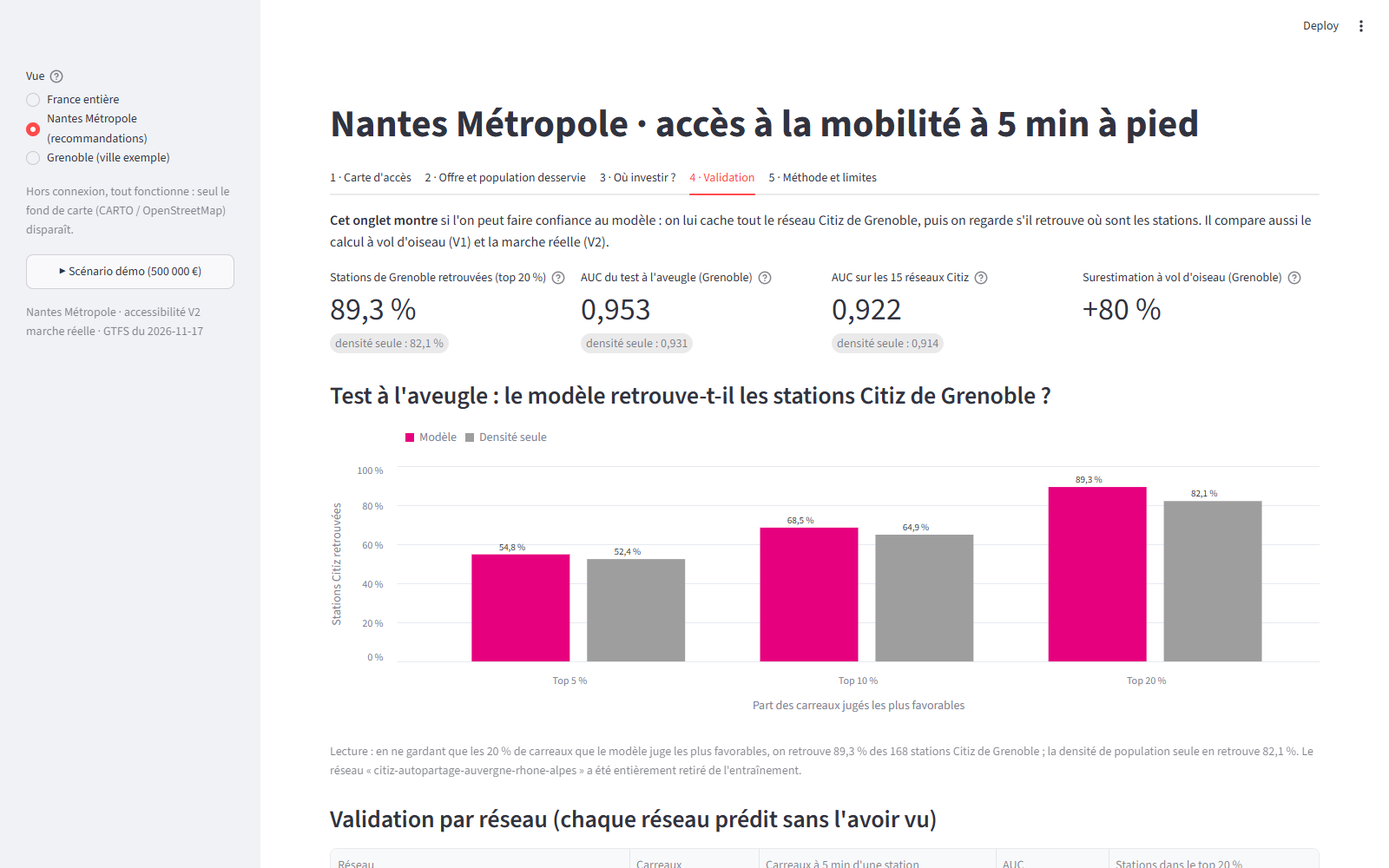
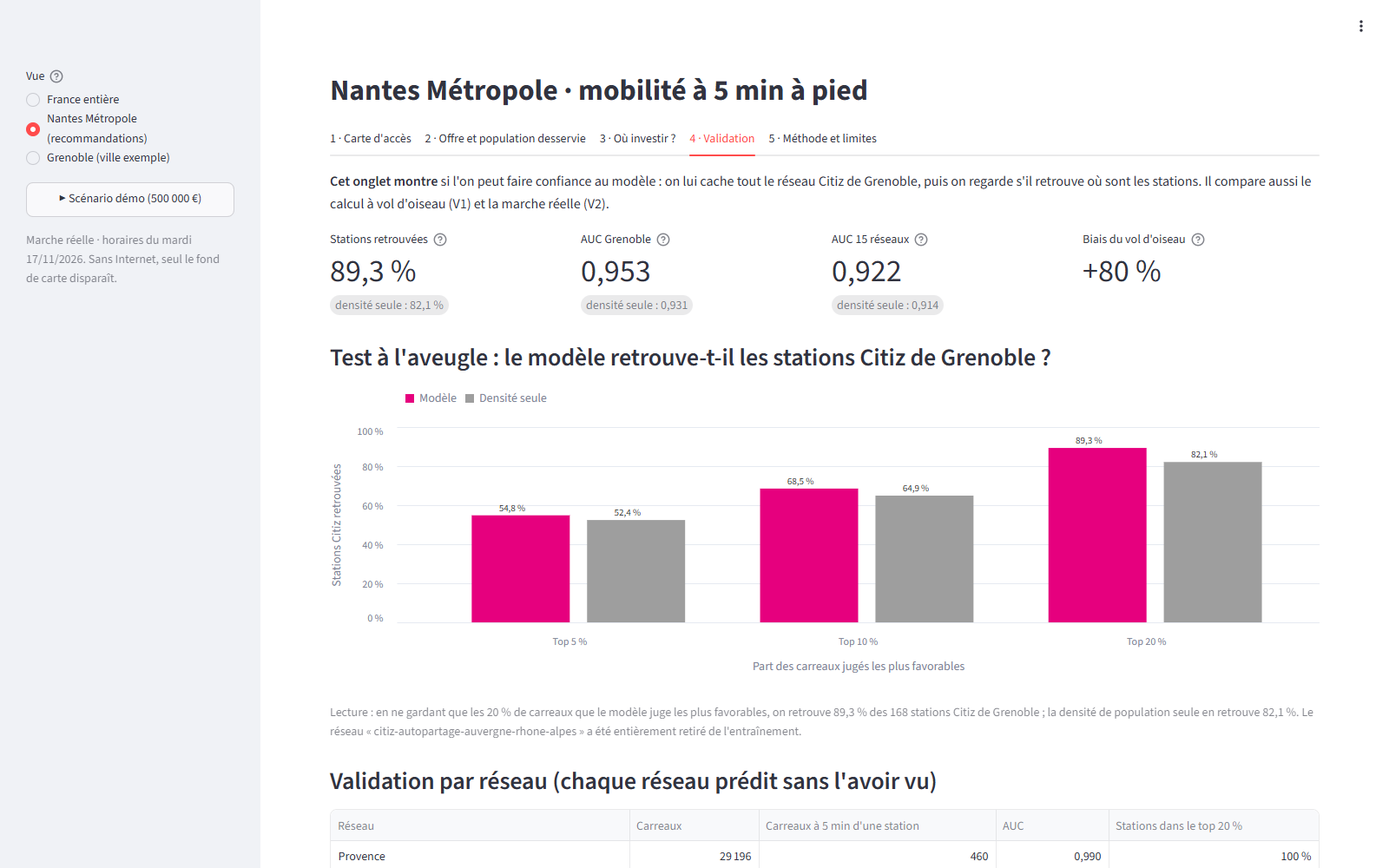
Démo, lot 1 de la revue visuelle : lisibilité en 1280 × 720 et 1920 × 1080
- Où investir : carte centrée sur les stations recommandées (zoom ajusté), numéros des stations
  enfin affichés, liste priorisée sur 12 lignes sans les colonnes Emplacement et Budget cumulé
  (toujours dans l'export CSV).
- Indicateurs : libellés courts (détail dans l'aide), couverture avant → après lisible
  (19,0 % → 24,1 %).
- Titre plus court et plus petit, marge du haut réduite.
- France : indicateur par défaut « part de la population sans aucune option », carte plus haute.
- Validation : légende en français sous les graphiques SHAP (vols liés aux véhicules, indicateur
  communal) ; petites cartes V1 / V2 retirées ; plus de « ? » orphelin.
- Barre latérale : bouton Scénario démo sans infobulle envahissante, mentions discrètes en bas
  (date au format 17/11/2026). Libellé « Marguerite ».
- lancer_demo.bat : plus de demande d'e-mail au premier lancement, navigateur ouvert dès que
  l'appli répond (port 8501).
- Captures de secours (slides/img/demo/) régénérées.

diff --git a/app/app.py b/app/app.py
@@ -9,6 +9,7 @@ Rien de lourd n'est calculé au démarrage.
 """
 from __future__ import annotations
 
+import datetime as dt
 import json
 import sys
 from pathlib import Path
@@ -20,16 +21,19 @@ from pyproj import Transformer
 
 sys.path.insert(0, str(Path(__file__).resolve().parents[1]))
 from app.data import FILES, REAL, ROOT, available, city_folder, has_reco, load_all  # noqa: E402
-from app.ui import colorize, deck, fmt, fr, pct, table, walk_minutes  # noqa: E402
+from app.ui import colorize, deck, fit_zoom, fmt, fr, pct, table, walk_minutes  # noqa: E402
 from src.common.config import load_settings  # noqa: E402
 
 st.set_page_config(page_title="Accès mobilité · Citiz", layout="wide")
+# marge du haut réduite et titre plus petit : tout tient mieux en 1280 × 720 (vidéoprojecteur)
+st.markdown("<style>[data-testid='stMainBlockContainer'], .block-container {padding-top: 3rem;} "
+            "h1 {font-size: 2.1rem !important;}</style>", unsafe_allow_html=True)
 
 TYPE_COLORS = {"bus": [0, 114, 178], "tram": [213, 94, 0], "metro": [204, 121, 167], "train": [86, 86, 86],
                "telepherique": [0, 158, 115], "velo": [0, 158, 115], "trottinette": [240, 228, 66],
                "citiz": [230, 0, 126], "autopartage": [150, 0, 90]}
 TYPE_LABELS = {"bus": "Bus", "tram": "Tram", "metro": "Métro", "train": "Train", "telepherique": "Téléphérique",
-               "velo": "Vélo", "trottinette": "Trottinette", "citiz": "Citiz", "autopartage": "Autre autopartage (Marguerite…)"}
+               "velo": "Vélo", "trottinette": "Trottinette", "citiz": "Citiz", "autopartage": "Marguerite"}
 # opérateur lisible à partir de la source (gtfs:<jeu>, gbfs:<flux>, local:<nom>)
 OPERATORS = (("naolib", "Naolib"), ("aleop", "Aléop (Région)"), ("sncf", "SNCF"), ("bacs-de-loire", "Bacs de Loire"),
              ("marguerite", "Marguerite"), ("citiz", "Citiz"), ("telepherique", "Téléphérique de la Bastille"),
@@ -40,7 +44,8 @@ MIN_MENAGES = 11
 TO_WGS84 = Transformer.from_crs(2154, 4326, always_xy=True)
 FIG = ROOT / "docs" / "figures"
 DEMO = {"budget": 500_000, "equity": 0.5, "method": "ilp"}           # bouton « Scénario démo » (= slides)
-PRECALC = (250_000, 500_000, 1_000_000)                               # budgets lus directement (build_reco)
+PRECALC = (250_000, 500_000, 1_000_000)
+JOURS = ("lundi", "mardi", "mercredi", "jeudi", "vendredi", "samedi", "dimanche")                               # budgets lus directement (build_reco)
 
 
 def operator(source: str) -> str:
@@ -108,14 +113,18 @@ def demo_scenario() -> None:
 view = st.sidebar.radio("Vue", list(VIEWS),
                         help="France : accessibilité à vol d'oiseau de tous les carreaux habités. "
                              "Nantes : diagnostic et recommandations. Grenoble : ville exemple (marche réelle, validation).")
-st.sidebar.caption("Hors connexion, tout fonctionne : seul le fond de carte (CARTO / OpenStreetMap) disparaît.")
+side = st.sidebar.container()        # bouton « Scénario démo » (vues ville)
+note = st.sidebar.container()        # mentions discrètes, en bas
+OFFLINE = "Sans Internet, seul le fond de carte disparaît."
 if VIEWS[view] is None:
+    note.caption(OFFLINE)
     from app.national import render
     render()
     st.stop()
 
 # imports utiles seulement aux vues ville (la vue France démarre ainsi plus vite)
 import altair as alt  # noqa: E402
+import geopandas as gpd  # noqa: E402
 from src.optim.costs import co2_avoided_t_per_year, load_costs  # noqa: E402
 from src.optim.optimize import Problem, optimize  # noqa: E402
 
@@ -132,12 +141,15 @@ meta = d["meta"]
 version = meta.get("version_acces", "v1")
 reco = has_reco(folder)
 if reco:
-    st.sidebar.button("▶ Scénario démo (500 000 €)", on_click=demo_scenario, width="stretch",
-                      help="Remet l'onglet « Où investir ? » sur le scénario des slides : 500 000 €, équité 0,5, ILP optimal.")
-st.sidebar.caption(f"{meta.get('zone', '')} · accessibilité {'V2 marche réelle' if version == 'v2' else 'V1 vol d’oiseau'}"
-                   f" · GTFS du {meta.get('jour_type_gtfs', '?')}")
+    side.button("▶ Scénario démo (500 000 €)", on_click=demo_scenario, width="stretch")
+try:
+    jour = dt.date.fromisoformat(meta["jour_type_gtfs"])
+    jour_txt = f"{JOURS[jour.weekday()]} {jour:%d/%m/%Y}"
+except (KeyError, ValueError):
+    jour_txt = "jour type"
+note.caption(f"{'Marche réelle' if version == 'v2' else 'Vol d’oiseau'} · horaires du {jour_txt}. {OFFLINE}")
 
-st.title(f"{meta.get('zone', ville)} · accès à la mobilité à 5 min à pied")
+st.title(f"{meta.get('zone', ville)} · mobilité à 5 min à pied")
 tab1, tab2, tab3, tab4, tab5 = st.tabs(["1 · Carte d'accès", "2 · Offre et population desservie", "3 · Où investir ?",
                                         "4 · Validation", "5 · Méthode et limites"])
 cells = d["cells"]
@@ -150,10 +162,12 @@ with tab1:
                 "chaque habitant trouve à moins de 5 minutes à pied de chez lui, en marche réelle sur les rues et chemins.")
     c1, c2, c3, c4 = st.columns(4)
     c1.metric("Habitants", fmt(pop))
-    c2.metric("Avec au moins une option à 5 min", pct(cells.loc[cells.n_options > 0, "population"].sum() / pop))
-    c3.metric("Options par habitant (pondérées)", fr((cells.n_options * cells.population).sum() / pop, 1),
-              help="Chaque option compte selon son mode et sa fréquence : un tram toutes les 5 min pèse plus qu'un car rare.")
-    c4.metric("Déjà à 5 min d'un autopartage", pct(covered_pop / pop))
+    c2.metric("Avec une option à 5 min", pct(cells.loc[cells.n_options > 0, "population"].sum() / pop))
+    c3.metric("Options par habitant", fr((cells.n_options * cells.population).sum() / pop, 1),
+              help="Options pondérées : chaque option compte selon son mode et sa fréquence (un tram toutes les "
+                   "5 min pèse plus qu'un car rare).")
+    c4.metric("Près d'un autopartage", pct(covered_pop / pop),
+              help="Habitants déjà à 5 min à pied d'une station Citiz ou Marguerite.")
     c0, c00 = st.columns(2)
     scale = c0.radio("Échelle", ["IRIS (recommandé)", "Carreaux 200 m"], horizontal=True)
     indic = c00.radio("Indicateur", ["Options pondérées par habitant", "Options pour 1 000 habitants (2SFCA)"],
@@ -193,11 +207,11 @@ with tab2:
     tc = o_all["type"].isin(["bus", "tram", "metro", "train", "telepherique"])
     cs = o_all["type"].isin(["citiz", "autopartage"])
     m1, m2, m3, m4 = st.columns(4)
-    m1.metric("Arrêts de transport en commun", fmt(tc.sum()))
+    m1.metric("Arrêts de TC", fmt(tc.sum()), help="Arrêts de bus, tram, train (transports en commun).")
     m2.metric("Stations d'autopartage", fmt(cs.sum()), help=" · ".join(
         f"{TYPE_LABELS[t]} : {n}" for t, n in o_all.loc[cs, "type"].value_counts().items()))
-    m3.metric("Vélos et trottinettes (stations ou zones)", fmt((~tc & ~cs).sum()))
-    m4.metric("Habitants avec une seule option à 5 min", fmt(o_all["pop_seule_option"].sum()),
+    m3.metric("Vélos et trottinettes", fmt((~tc & ~cs).sum()), help="Stations ou zones de vélos et trottinettes partagés.")
+    m4.metric("Une seule option à 5 min", fmt(o_all["pop_seule_option"].sum()),
               help="Habitants pour qui ce point est la seule option de mobilité à 5 minutes à pied.")
     types = st.multiselect("Types", sorted(o_all["type"].unique()), default=sorted(o_all["type"].unique()),
                            format_func=lambda t: TYPE_LABELS.get(t, t))
@@ -265,13 +279,14 @@ with tab3:
         co2 = co2_avoided_t_per_year(len(sel))
         with right:
             m1, m2, m3, m4 = st.columns(4)
-            m1.metric("Stations Citiz recommandées", len(sel))
+            m1.metric("Stations Citiz", len(sel), help="Stations Citiz recommandées pour ce budget.")
             m2.metric("Habitants gagnés", fmt(new_pop),
-                      delta=f"couverture {pct(covered_pop / pop)} → {pct((covered_pop + new_pop) / pop)}",
-                      help=f"Habitants nouvellement à 5 min à pied d'un autopartage. Aujourd'hui : {fmt(covered_pop)} ; après : "
+                      delta=f"{pct(covered_pop / pop)} → {pct((covered_pop + new_pop) / pop)}",
+                      help=f"Habitants nouvellement à 5 min à pied d'un autopartage. Sous le chiffre : part des habitants "
+                           f"couverts, avant → après. Aujourd'hui : {fmt(covered_pop)} ; après : "
                            f"{fmt(covered_pop + new_pop)}.")
-            m3.metric("Coût par habitant gagné", fr(summary["cout_total"] / max(1, new_pop), 1, "€"),
-                      help=f"Sur {load_costs()['horizon_ans']} ans (installation, véhicule, assurance, entretien).")
+            m3.metric("Coût par habitant", fr(summary["cout_total"] / max(1, new_pop), 1, "€"),
+                      help=f"Coût par habitant gagné, sur {load_costs()['horizon_ans']} ans (installation, véhicule, assurance, entretien).")
             m4.metric("CO₂ évité (prudent)", fr(co2, 1, "t/an"),
                       help="1 véhicule par station : 10 000 km de voiture évités/an × 0,142 kgCO₂e/km (ADEME, bornes basses).")
             if not sel.empty:
@@ -280,6 +295,7 @@ with tab3:
                 s["cout_txt"] = s.cout.map(lambda v: fmt(v, "€"))
                 s["pop_txt"] = s.pop_nouvellement_desservie.map(fmt)
                 s["proba_txt"] = s.usage_predit.map(lambda v: pct(v, 0))
+                s["rang_txt"] = s["rang"].astype(int).astype(str)          # le calque texte n'affiche que du texte
                 walk = s["dist_autopartage_m"] if "dist_autopartage_m" in s else pd.Series(float("nan"), index=s.index)
                 speed = load_settings()["walk"]["speed_kmh"]
                 s["marche_txt"] = walk.map(lambda m: walk_minutes(m, speed))
@@ -293,13 +309,15 @@ with tab3:
                           pdk.Layer("ScatterplotLayer", s, get_position=["lon", "lat"], get_fill_color=[230, 0, 126],
                                     get_line_color=[0, 0, 0], line_width_min_pixels=1, stroked=True, get_radius=70,
                                     radius_min_pixels=5, pickable=True),
-                          pdk.Layer("TextLayer", s, get_position=["lon", "lat"], get_text="rang", get_size=12,
+                          pdk.Layer("TextLayer", s, get_position=["lon", "lat"], get_text="rang_txt", get_size=14,
                                     get_color=[0, 0, 0], get_pixel_offset=[0, -14])]
-                st.pydeck_chart(deck(layers, d["candidates_wgs"], "<b>n° {rang} · {nom}</b>"
-                                                                  "<br/>À {marche_txt} à pied de l'autopartage le plus proche"
-                                                                  "<br/>Habitants nouvellement à 5 min : {pop_txt}"
-                                                                  "<br/>Coût sur 3 ans : {cout_txt}"
-                                                                  "<br/>Probabilité selon le modèle : {proba_txt}"))
+                frame = gpd.GeoDataFrame(geometry=gpd.points_from_xy(s.lon, s.lat), crs=4326)   # centrée sur les stations
+                st.pydeck_chart(deck(layers, frame, "<b>n° {rang} · {nom}</b>"
+                                                    "<br/>À {marche_txt} à pied de l'autopartage le plus proche"
+                                                    "<br/>Habitants nouvellement à 5 min : {pop_txt}"
+                                                    "<br/>Coût sur 3 ans : {cout_txt}"
+                                                    "<br/>Probabilité selon le modèle : {proba_txt}", fit_zoom(frame)),
+                                height=440)
                 st.caption("Points numérotés : stations recommandées (halo clair ≈ 400 m). Petits points : autopartage "
                            "existant (rose : Citiz, violet : Marguerite). Un point peut sembler proche d'une station "
                            "existante à vol d'oiseau tout en étant à plus de 5 min à pied (voir l'infobulle).")
@@ -307,15 +325,14 @@ with tab3:
         tbl = sel.assign(origine=sel["origine"].map({"carreau": "quartier", "arret_tc": "arrêt de TC"}).fillna(sel["origine"]),
                          marche=sel.get("dist_autopartage_m", pd.Series(float("nan"), index=sel.index))
                          .map(lambda m: walk_minutes(m, load_settings()["walk"]["speed_kmh"])))
-        tbl = tbl[["rang", "nom", "origine", "marche", "cout", "pop_nouvellement_desservie", "usage_predit",
-                   "cout_par_habitant", "budget_cumule"]].rename(columns={
-                       "rang": "Rang", "nom": "Lieu", "origine": "Emplacement", "marche": "Autopartage le plus proche (à pied)",
+        tbl = tbl[["rang", "nom", "marche", "cout", "pop_nouvellement_desservie", "usage_predit",
+                   "cout_par_habitant"]].rename(columns={                  # emplacement, budget cumulé : dans l'export CSV
+                       "rang": "Rang", "nom": "Lieu", "marche": "Autopartage le plus proche (à pied)",
                        "cout": "Coût sur 3 ans (€)", "pop_nouvellement_desservie": "Habitants nouveaux",
-                       "usage_predit": "Probabilité modèle", "cout_par_habitant": "€ par habitant",
-                       "budget_cumule": "Budget cumulé (€)"})
-        st.dataframe(table(tbl, digits={"Coût sur 3 ans (€)": 0, "Habitants nouveaux": 0, "€ par habitant": 1,
-                                        "Budget cumulé (€)": 0}, percent={"Probabilité modèle": 0}),
-                     width="stretch", hide_index=True)
+                       "usage_predit": "Probabilité modèle", "cout_par_habitant": "€ par habitant"})
+        st.dataframe(table(tbl, digits={"Coût sur 3 ans (€)": 0, "Habitants nouveaux": 0, "€ par habitant": 1},
+                           percent={"Probabilité modèle": 0}),
+                     width="stretch", hide_index=True, height=35 * (min(len(tbl), 12) + 1) + 3)   # 12 lignes visibles
         st.download_button("Exporter en CSV", sel.to_csv(index=False, sep=";", decimal=",").encode("utf-8-sig"),
                            file_name=f"recommandation_{ville}_{method}_{budget}.csv", mime="text/csv")
         source = ("scénario précalculé, lecture instantanée" if pre is not None
@@ -337,21 +354,21 @@ with tab4:
         t = val["test_aveugle_grenoble"]
         mod, base = t["modele"], t["baseline_densite"]
         m1, m2, m3, m4 = st.columns(4)
-        m1.metric("Stations de Grenoble retrouvées (top 20 %)", pct(mod["stations"]["top_20pct"]),
+        m1.metric("Stations retrouvées", pct(mod["stations"]["top_20pct"]),
                   delta=f"densité seule : {pct(base['stations']['top_20pct'])}", delta_color="off", delta_arrow="off",
-                  help="Part des stations Citiz de Grenoble situées dans les 20 % de carreaux que le modèle juge les plus "
+                  help="Test à l'aveugle, Grenoble : part des stations Citiz situées dans les 20 % de carreaux que le modèle juge les plus "
                        "favorables, alors qu'il n'a jamais vu ce réseau.")
-        m2.metric("AUC du test à l'aveugle (Grenoble)", fr(mod["carreaux"]["auc"], 3),
+        m2.metric("AUC Grenoble", fr(mod["carreaux"]["auc"], 3),
                   delta=f"densité seule : {fr(base['carreaux']['auc'], 3)}", delta_color="off", delta_arrow="off",
-                  help="Probabilité qu'un carreau proche d'une station soit mieux classé qu'un carreau sans station (0,5 = hasard).")
-        m3.metric(f"AUC sur les {val['perimetre']['reseaux']} réseaux Citiz", fr(val["modele_oof"]["auc"], 3),
+                  help="Test à l'aveugle, Grenoble. Probabilité qu'un carreau proche d'une station soit mieux classé qu'un carreau sans station (0,5 = hasard).")
+        m3.metric(f"AUC {val['perimetre']['reseaux']} réseaux", fr(val["modele_oof"]["auc"], 3),
                   delta=f"densité seule : {fr(val['baseline_densite']['auc'], 3)}", delta_color="off", delta_arrow="off",
                   help="Validation croisée : chaque réseau est prédit par un modèle entraîné sans lui.")
         if comps["grenoble"]:
-            m4.metric("Surestimation à vol d'oiseau (Grenoble)", f"+{fr(comps['grenoble']['surestimation_options_moyennes_pct'], 0)} %",
-                      help="Options par habitant à vol d'oiseau (V1) rapportées à la marche réelle (V2).")
+            m4.metric("Biais du vol d'oiseau", f"+{fr(comps['grenoble']['surestimation_options_moyennes_pct'], 0)} %",
+                      help="Grenoble : options par habitant à vol d'oiseau (V1) rapportées à la marche réelle (V2), moins 1.")
 
-        st.subheader("Test à l'aveugle : le modèle retrouve-t-il les stations Citiz de Grenoble ?")
+        st.subheader("Test à l'aveugle : le modèle retrouve-t-il les stations Citiz de Grenoble\u00a0?")
         rows = [{"Carreaux retenus": f"Top {k} %", "ordre": k, "Approche": name, "part": r["stations"][f"top_{k}pct"]}
                 for k in (5, 10, 20) for name, r in (("Modèle", mod), ("Densité seule", base))]
         chart_df = pd.DataFrame(rows).assign(texte=lambda x: x["part"].map(pct))
@@ -387,6 +404,12 @@ with tab4:
                             (c2, FIG / "modele" / "shap_beeswarm.png", "Sens des effets (SHAP)")):
             if img.exists():
                 c.image(str(img), caption=cap)
+        st.caption("Lecture des variables (de haut en bas) : equipements_400m = commerces, services et équipements à "
+                   "400 m ; vols_vehicules_1000 = vols liés aux véhicules, indicateur communal ; part_sans_voiture = part "
+                   "des ménages sans voiture ; densite_800m = densité de population à 800 m ; options_hors_citiz_400m = "
+                   "autres options de mobilité à 400 m. Chaque point est un carreau : à droite, la variable augmente la "
+                   "probabilité d'une station Citiz ; rouge = valeur élevée, bleu = valeur faible (légendes d'origine "
+                   "en anglais : « SHAP value », « High », « Low »).")
     else:
         st.info("Modèle non entraîné (data/processed/model/validation.json absent) : "
                 "`python -m src.model.features && python -m src.model.train`.")
@@ -410,12 +433,6 @@ with tab4:
                             "sont pas à pied." for c, comp in comps.items() if comp and "v2" in comp)
                    + " Causes : rivières, voies ferrées, rocades, îlots fermés. Les chiffres de la vue France (V1) sont "
                      "donc des bornes hautes.")
-        cols = st.columns(3)
-        for c, name, cap in zip(cols, ("acces_v1_buffer", "acces_v2_reseau", "acces_v1_moins_v2"),
-                                ("Grenoble V1 : vol d'oiseau", "Grenoble V2 : marche réelle", "Surestimation V1 − V2")):
-            img = FIG / "grenoble" / f"{name}.png"
-            if img.exists():
-                c.image(str(img), caption=cap)
     else:
         st.info("Comparaison V1 / V2 absente : `python -m scripts.build_all --ville grenoble --v2`.")
 

diff --git a/app/national.py b/app/national.py
@@ -43,7 +43,8 @@ def dep_layer(dep: str, kind: str) -> gpd.GeoDataFrame:
     return light(gpd.read_parquet(APP / "dep" / f"{dep}_{kind}.parquet"), 0.0003)
 
 
-def choropleth(g: gpd.GeoDataFrame, metric: str, label_col: str, metrics: dict, zoom: float, frame=None):
+def choropleth(g: gpd.GeoDataFrame, metric: str, label_col: str, metrics: dict, zoom: float, frame=None,
+               height: int | None = None):
     """frame : géométries sur lesquelles centrer la carte (par défaut toutes)."""
     label, fmt_, hot = metrics[metric]
     g = g[[label_col, metric, "population", "geometry"]].copy()
@@ -54,7 +55,8 @@ def choropleth(g: gpd.GeoDataFrame, metric: str, label_col: str, metrics: dict, 
                       get_fill_color="properties.color", get_line_color=[255, 255, 255, 80], line_width_min_pixels=0.3,
                       opacity=0.75, pickable=True)
     st.pydeck_chart(deck([layer], g if frame is None else frame,
-                         f"<b>{{{label_col}}}</b><br/>{label} : {{val}}<br/>Habitants : {{pop}}", zoom))
+                         f"<b>{{{label_col}}}</b><br/>{label} : {{val}}<br/>Habitants : {{pop}}", zoom),
+                    **({"height": height} if height else {}))
 
 
 def render() -> None:
@@ -65,23 +67,24 @@ def render() -> None:
                  "Les reconstruire : `python -m src.national.build_all` (≈ 5 min, données brutes requises : "
                  "docs/RECUPERER_LES_DONNEES.md). En attendant : captures de slides/img/demo/.")
         return
-    st.title("France entière · accès à la mobilité à 5 min à pied")
+    st.title("France entière · mobilité à 5 min à pied")
     st.markdown("**Cette carte montre**, pour chaque département ou intercommunalité, la part des habitants qui ont "
                 "un bus, un tram, un vélo en libre-service ou une voiture partagée à moins de 5 minutes à pied de chez eux.")
     layers = national_layers()
     dep_tot = layers["Départements"]
     pop = dep_tot.population.sum()
     m1, m2, m3, m4 = st.columns(4)
-    m1.metric("Habitants couverts (carreaux Filosofi)", fmt(pop))
+    m1.metric("Habitants couverts", fmt(pop), help="Habitants des carreaux de 200 m de l'INSEE (Filosofi).")
     m2.metric("Sans aucune option à 5 min", pct((dep_tot.part_pop_sans_option * dep_tot.population).sum() / pop))
-    m3.metric("À 5 min d'un arrêt de transport en commun", pct((dep_tot.part_pop_avec_tc * dep_tot.population).sum() / pop))
+    m3.metric("À 5 min d'un arrêt de TC", pct((dep_tot.part_pop_avec_tc * dep_tot.population).sum() / pop))
     m4.metric("À 5 min d'une station Citiz", pct((dep_tot.part_pop_citiz_5min * dep_tot.population).sum() / pop))
     c1, c2 = st.columns([1, 2])
     level = c1.radio("Échelle", ["Départements", "EPCI"], horizontal=True)
     metrics = {**METRICS, **(EPCI_ONLY if level == "EPCI" else {})}
-    metric = c2.selectbox("Indicateur", list(metrics), format_func=lambda m: metrics[m][0])
+    metric = c2.selectbox("Indicateur", list(metrics), index=list(metrics).index("part_pop_sans_option"),
+                          format_func=lambda m: metrics[m][0])
     g = layers[level].rename(columns={"nom": "nom_aff"})
-    choropleth(g, metric, "nom_aff", metrics, zoom=4.8, frame=g.cx[-5.5:10, 41:51.5])   # centrée sur la métropole
+    choropleth(g, metric, "nom_aff", metrics, zoom=4.75, frame=g.cx[-5.5:10, 41:51.5], height=560)   # métropole entière
     st.caption("Couleur : du plus froid au plus chaud. Les zones froides signalent un **potentiel d'amélioration**. "
                "Accessibilité calculée à 400 m à vol d'oiseau : c'est une borne haute (la marche réelle, mesurée à "
                "Grenoble et Nantes, donne moins d'accès).")

diff --git a/app/ui.py b/app/ui.py
@@ -37,6 +37,16 @@ def fr(x, digits: int = 0, unit: str = "") -> str:
     return s + (f" {unit}" if unit else "")
 
 
+def fit_zoom(gdf, width_px: int = 600, height_px: int = 440, pad: float = 1.4, lo: float = 9.5,
+             hi: float = 13.0) -> float:
+    """Zoom qui fait tenir l'emprise de `gdf` (WGS84) dans une carte d'au moins width_px × height_px."""
+    minx, miny, maxx, maxy = gdf.total_bounds
+    span_x = max(maxx - minx, 1e-3) * pad
+    span_y = max(maxy - miny, 1e-3) * pad / np.cos(np.radians((miny + maxy) / 2))
+    z = min(np.log2(width_px * 360 / (512 * span_x)), np.log2(height_px * 360 / (512 * span_y)))   # tuiles deck.gl : 512 px
+    return float(np.clip(z, lo, hi))
+
+
 def fmt(x: float, unit: str = "") -> str:
     return fr(x, 0, unit)
 

diff --git a/scripts/captures_demo.py b/scripts/captures_demo.py
@@ -78,7 +78,7 @@ def main() -> None:
             if a.hors_ligne:
                 page.route("**/*", lambda r: r.continue_() if r.request.url.startswith(URL) else r.abort())
             page.goto(URL)
-            page.get_by_text("France entière · accès").wait_for(timeout=120_000)
+            page.get_by_text("France entière · mobilité").wait_for(timeout=120_000)
             idle(page, 1)
             print(f"démarrage (serveur + première page) : {time.perf_counter() - t0:.1f} s", flush=True)
             page.wait_for_timeout(6000)                       # carte nationale : GeoJSON des départements

diff --git a/tests/test_app.py b/tests/test_app.py
@@ -72,6 +72,6 @@ def test_nantes_demo_button_and_precomputed_matches_live():
     at.select_slider(key="equity").set_value(0.5).run()
     at.select_slider(key="budget").set_value(750_000).run()
     next(b for b in at.sidebar.button if "Scénario démo" in b.label).click().run()
-    assert at.select_slider(key="budget").value == 500_000 and metric(at, "Stations Citiz recommandées") == "12"
+    assert at.select_slider(key="budget").value == 500_000 and metric(at, "Stations Citiz") == "12"
     assert metric(at, "Habitants gagnés") == pre
     assert not at.exception, at.exception

diff --git a/docs/DEMO.md b/docs/DEMO.md
@@ -73,7 +73,7 @@ pour vérifier le fonctionnement sans Internet.
 |---|---|
 | `lancer_demo.bat` affiche « Environnement Python absent » | Plan B (captures). Pour réinstaller : `python -m venv .venv` puis `.venv\Scripts\python -m pip install -r requirements.txt`. |
 | Message rouge « Données … absentes » dans l'appli | Plan B. L'appli lit `data/processed/` (jamais versionné) : copier ce dossier depuis le PC qui a servi aux répétitions, ou tout reconstruire depuis les données brutes (`docs/RECUPERER_LES_DONNEES.md`, ≈ 30 min). La Release `donnees-v2` contient les exports partagés (CSV, GPKG, cartes HTML), pas les fichiers de l'appli. |
-| Port 8501 occupé | Streamlit prend automatiquement le port suivant (8502) : lire l'adresse affichée dans la fenêtre noire. |
+| Port 8501 occupé (« Port 8501 is already in use ») | L'appli tourne déjà dans une autre fenêtre : l'utiliser, ou la fermer puis relancer `lancer_demo.bat`. |
 | Erreur Python après une modification de dernière minute | `git stash`, puis `git checkout demo-v1`. Les données de `data/processed/` restent compatibles. |
 | Pas d'Internet | Rien à faire : seul le fond de carte disparaît. |
 | Calcul lent sur un budget inhabituel | Rester sur 250 000, 500 000 ou 1 000 000 € (instantanés), ou choisir « Glouton (rapide) ». |
